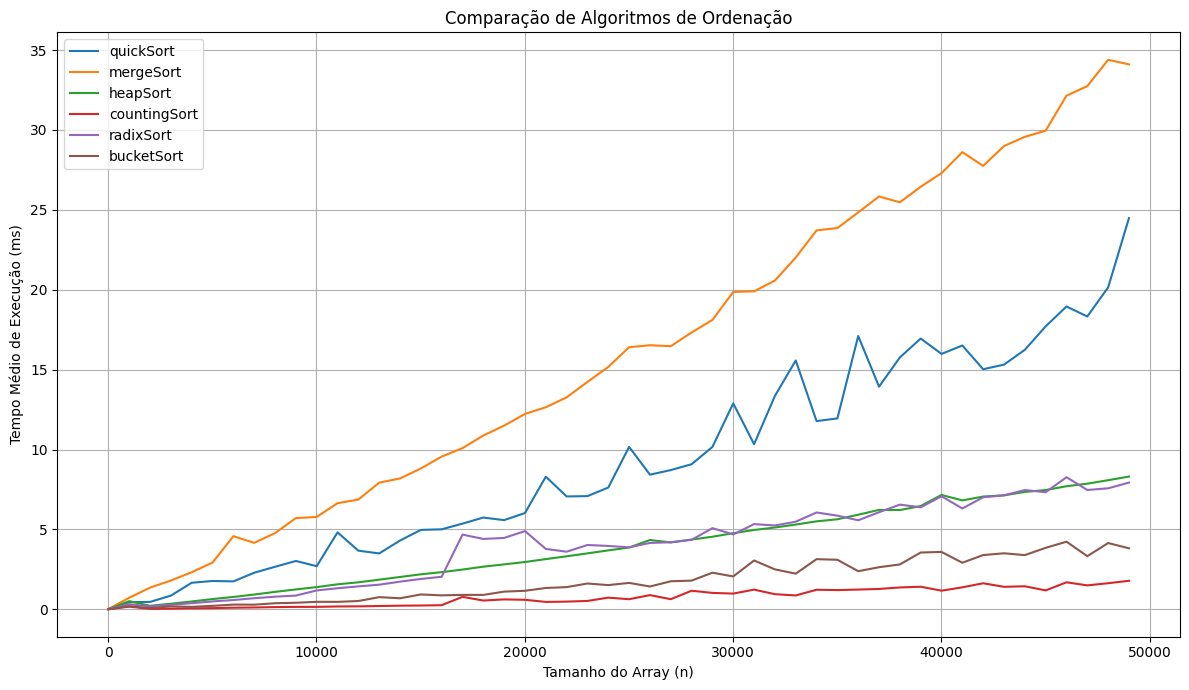
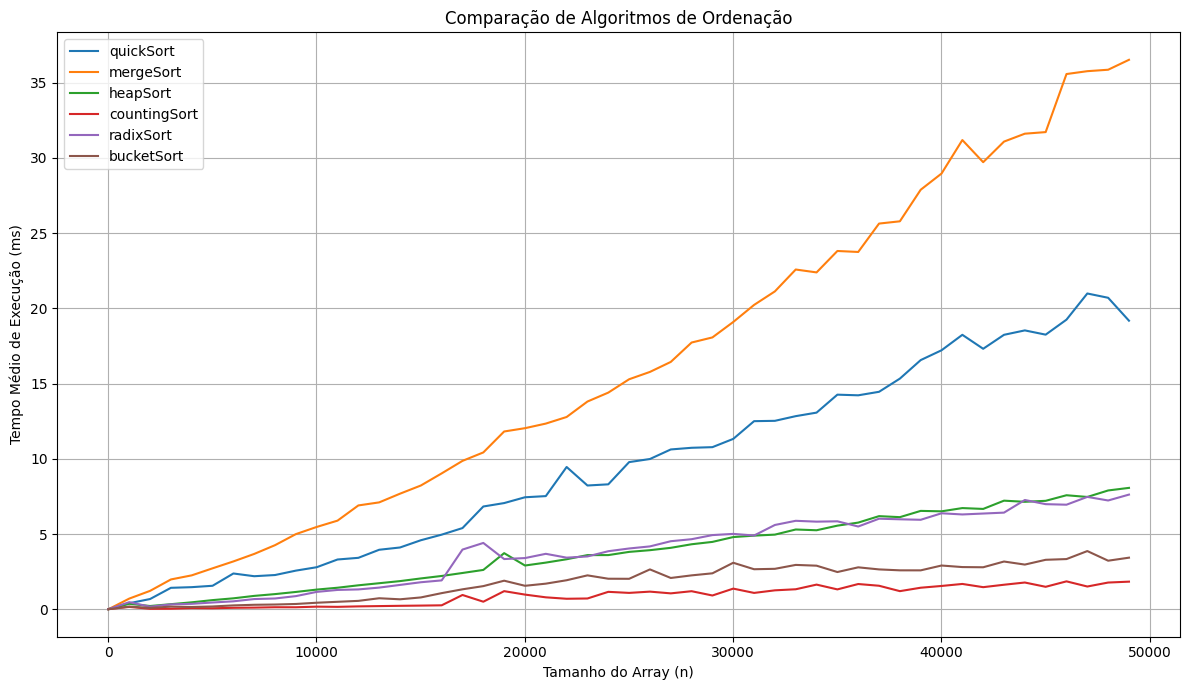
fix

diff --git a/src/index.ts b/src/index.ts
@@ -15,58 +15,58 @@ async function runBenchmarks(): Promise<BenchmarkResult[]> {
 
   for (let n = MIN_N; n <= MAX_N; n += STEP) {
     console.log(`Testando com n = ${n}...`);
-    const arr = generateRandomArray(n);
+
+    const generator = () => generateRandomArray(n);
 
     const result: Partial<BenchmarkResult> = { n };
 
     result.quickSort = measureAverageTime(
       algorithms.quickSort,
-      arr,
+      generator,
       RUNS_PER_ALGORITHM
     );
 
     result.mergeSort = measureAverageTime(
       algorithms.mergeSort,
-      arr,
+      generator,
       RUNS_PER_ALGORITHM
     );
 
     result.heapSort = measureAverageTime(
       algorithms.heapSort,
-      arr,
+      generator,
       RUNS_PER_ALGORITHM
     );
 
     result.countingSort = measureAverageTime(
       algorithms.countingSort,
-      arr,
+      generator,
       RUNS_PER_ALGORITHM
     );
 
     result.radixSort = measureAverageTime(
       algorithms.radixSort,
-      arr,
+      generator,
       RUNS_PER_ALGORITHM
     );
 
     result.bucketSort = measureAverageTime(
       algorithms.bucketSort,
-      arr,
+      generator,
       RUNS_PER_ALGORITHM
     );
 
-    console.log(`QuickSort: ${result.quickSort.toFixed(4)} ms \n`);
-    console.log(`MergeSort: ${result.mergeSort.toFixed(4)} ms \n`);
+    console.log(`QuickSort: ${result.quickSort.toFixed(4)} ms`);
+    console.log(`MergeSort: ${result.mergeSort.toFixed(4)} ms`);
     console.log(`HeapSort: ${result.heapSort.toFixed(4)} ms`);
-    console.log(`CountingSort: ${result.countingSort.toFixed(4)} ms \n`);
-    console.log(`RadixSort: ${result.radixSort.toFixed(4)} ms \n`);
-    console.log(`BucketSort: ${result.bucketSort.toFixed(4)} ms \n`);
+    console.log(`CountingSort: ${result.countingSort.toFixed(4)} ms`);
+    console.log(`RadixSort: ${result.radixSort.toFixed(4)} ms`);
+    console.log(`BucketSort: ${result.bucketSort.toFixed(4)} ms`);
 
     results.push(result as BenchmarkResult);
   }
 
   saveResultsToCSV(results);
-
   return results;
 }
 
@@ -94,7 +94,7 @@ function saveResultsToCSV(results: BenchmarkResult[]) {
 
 runBenchmarks()
   .then((results) => {
-    console.log("Comparações concluidas!");
+    console.log("Comparações concluídas!");
     console.log(`Total de ${results.length} tamanhos diferentes testados.`);
   })
   .catch((error) => {

diff --git a/src/utils/time.ts b/src/utils/time.ts
@@ -1,20 +1,21 @@
-import { AlgorithmFunction } from "../types";
+import { performance } from "perf_hooks";
 
 export function measureAverageTime(
-  algorithm: AlgorithmFunction,
-  arr: number[],
+  algorithm: (arr: number[]) => number[] | void,
+  generator: () => number[],
   runs: number
 ): number {
-  let totalTime = 0;
-  const arrCopy = [...arr];
+  const times: number[] = [];
 
   for (let i = 0; i < runs; i++) {
-    const copy = [...arrCopy];
+    const input = generator();
     const start = performance.now();
-    algorithm(copy);
+    algorithm([...input]);
     const end = performance.now();
-    totalTime += end - start;
+    times.push(end - start);
   }
 
-  return totalTime / runs;
+  const avg = times.reduce((acc, time) => acc + time, 0) / times.length;
+
+  return avg;
 }
